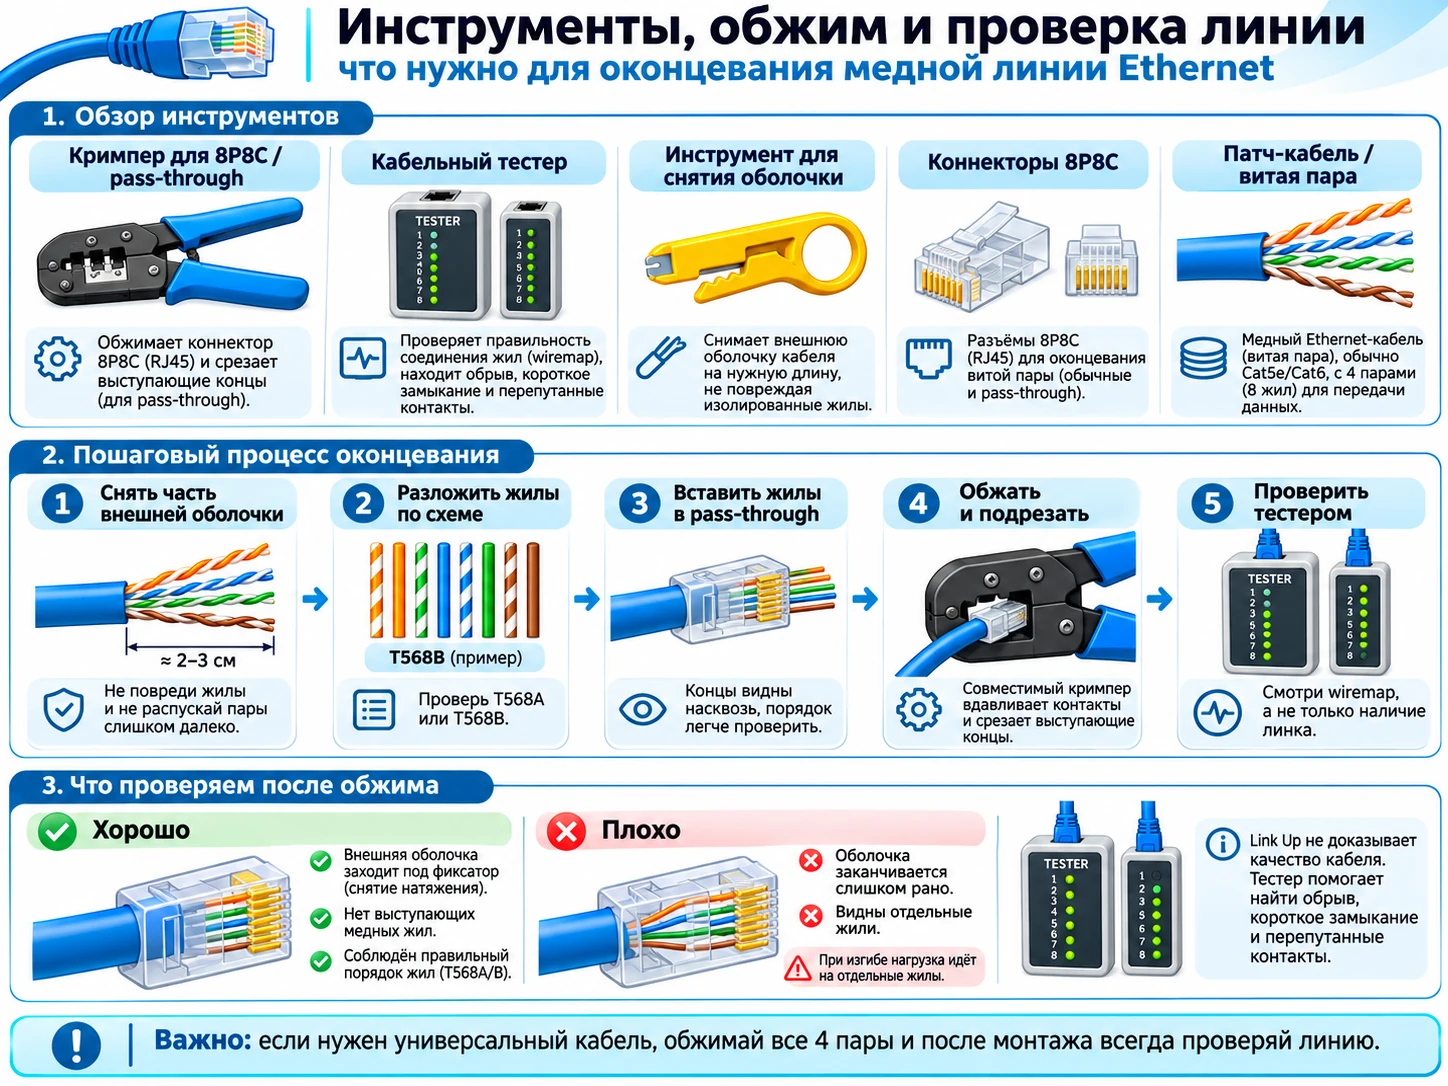
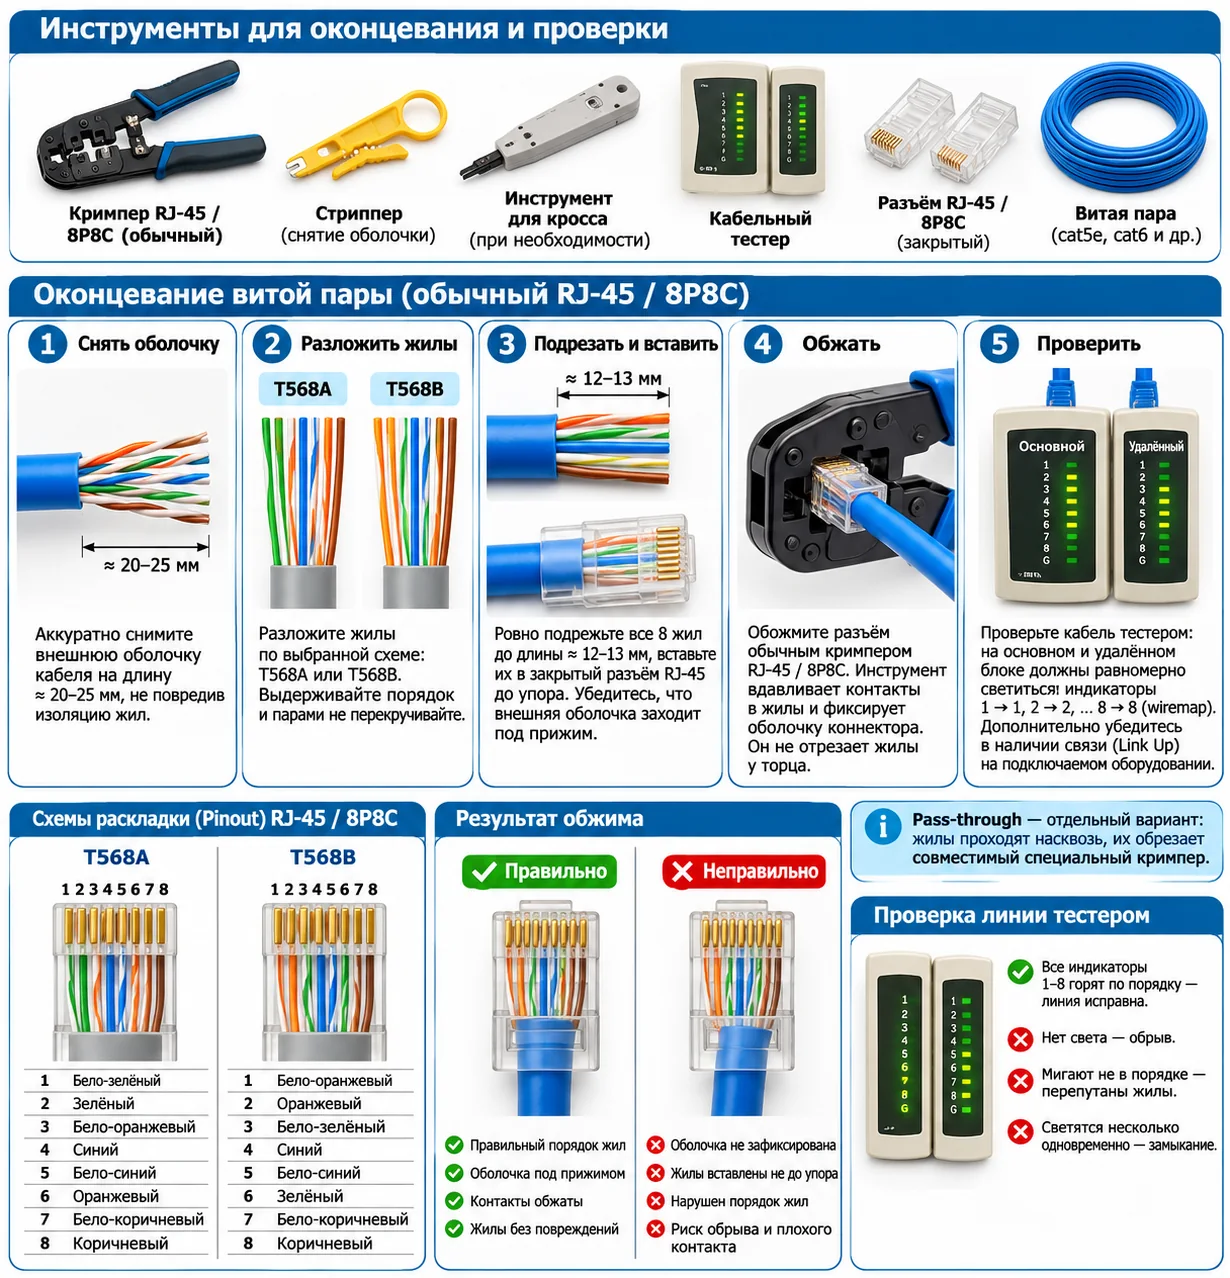
fix(copper lesson): use standard closed 8P8C crimping as primary workflow
Replace crimp-and-test cheatsheet with standard RJ-45 (8P8C) connector and conventional crimper. Clarify wires trimmed before inserting a closed plug, jacket under strain relief, and compare pass-through as separate optional method. Preserve all 16 question links, approval status and other cheat sheets. Staging only.

diff --git a/src/data/lessons/l1-copper-fault-poe.ts b/src/data/lessons/l1-copper-fault-poe.ts
@@ -10,7 +10,7 @@ export const LESSON_L1_COPPER_FAULT_POE: Lesson = {
     "L2"
   ],
   "difficulty": "beginner",
-  "summary": "Учимся отличать обычный и проходной коннекторы 8P8C, выбирать кримпер с обрезкой жил, замечать повреждённую медь и контакты, а после монтажа проверять линию. Фотографии расположены рядом с соответствующими объяснениями.",
+  "summary": "Разбираем обычные закрытые 8P8C (RJ-45) как основной вариант обжима, сравниваем их с pass-through, учимся выбирать инструмент, замечать повреждения жил и контактов и проверять кабель после монтажа.",
   "terms": [
     "витая пара",
     "8P8C",
@@ -26,7 +26,7 @@ export const LESSON_L1_COPPER_FAULT_POE: Lesson = {
   "blocks": [
     {
       "heading": "Что будем проверять в медной линии",
-      "body": "Обычный сетевой кабель Ethernet содержит четыре витые пары — восемь отдельных изолированных проводников. Для надёжного соединения мало просто вставить их в прозрачный штекер: важно не повредить медь, сохранить правильные пары, обеспечить контакт и закрепить оболочку кабеля.\n\nВ этом уроке речь именно о медной линии и её оконцевании. Мы разберём проходной коннектор, инструмент для него, типичные дефекты и проверки после обжима. Подробное питание устройств по кабелю изучается отдельно."
+      "body": "Обычный сетевой кабель Ethernet содержит четыре витые пары — восемь отдельных изолированных проводников. Для надёжного соединения мало просто вставить их в прозрачный штекер: важно не повредить медь, сохранить правильные пары, обеспечить контакт и закрепить оболочку кабеля.\n\nВ этом уроке речь именно о медной линии и её оконцевании. Начнём с обычного закрытого коннектора 8P8C и стандартного кримпера — именно такую последовательность показывает основная шпаргалка. Затем сравним проходной pass-through и его специальный инструмент, рассмотрим дефекты и способы проверки после обжима. Подробное питание устройств по кабелю изучается отдельно."
     },
     {
       "heading": "Обычный 8P8C и pass-through: что меняется",
@@ -62,8 +62,8 @@ export const LESSON_L1_COPPER_FAULT_POE: Lesson = {
       }
     },
     {
-      "heading": "Чем и как обрезают выступающие жилы",
-      "body": "Нужен кримпер, подходящий именно к выбранному проходному штекеру. В совместимом pass-through-кримпере матрица вдавливает металлические контакты в проводники и фиксирует оболочку, а встроенное торцевое лезвие срезает вышедшие наружу концы почти заподлицо с корпусом. Обычно оба действия происходят при полном ходе рукояток.\n\nПорядок: 1) проверить схему цветов и посадку оболочки; 2) вставить штекер в правильное гнездо кримпера до упора; 3) полностью сжать рукоятки; 4) осмотреть передний торец — не должно остаться торчащих медных «усиков», способных замкнуть контакты или помешать посадке.\n\nНа некоторых кримперах отдельно подписаны CUT (резка кабеля) и STRIP (снятие оболочки). Не путай внешний резак CUT с лезвием, которое подрезает жилы у торца проходного штекера. Обычный кримпер без такого лезвия не делает торцевую обрезку; пытаться оставлять выступающие жилы нельзя. Инструмент и коннектор должны быть совместимы по серии, диаметру жил и конструкции.\n\nЕсли концы жил не срезались, не подключай штекер. Проверь совместимость кримпера, положение, чистоту и износ торцевого лезвия. Дефектное окончание переделай новым штекером.",
+      "heading": "Обычный обжим 8P8C и отличие pass-through",
+      "body": "Для стандартного закрытого штекера 8P8C сначала аккуратно снимают участок наружной оболочки и раскладывают пары по T568A или T568B. После проверки цветов восемь жил ровно подрезают бокорезами или режущим узлом инструмента до длины, предусмотренной конкретным штекером. Затем одновременно вставляют их до упора внутрь закрытого корпуса: концы не должны выступать через переднюю стенку. Внешняя оболочка должна попадать под задний прижим.\n\nСледующий шаг — вставить штекер в подходящую матрицу обычного кримпера RJ-45/8P8C и полностью сжать рукоятки. Контактные ножи вдавливаются в проводники, а прижим фиксирует оболочку. Обычный кримпер НЕ обязан обрезать концы жил у передней стенки — их подрезали заранее. Осмотри положение контактов, посадку оболочки, отсутствие повреждений и проверь результат кабельным тестером.\n\nPass-through — альтернативная конструкция: жилы проходят через передний торец, так что раскладку видно до обжима. Совместимый кримпер с торцевым лезвием одновременно обжимает такой штекер и срезает выступающие концы заподлицо. Именно для этого варианта требуется функция торцевой подрезки, которой нет у обычного кримпера.\n\nНадписи CUT и STRIP на инструменте обычно обозначают отдельные операции резки кабеля и снятия наружной оболочки. Не путай их с торцевым ножом pass-through. Подбирай кримпер и штекер по совместимости, включая конструкцию контактов, тип жилы и её диаметр; повреждённый штекер лучше заменить новым.",
       "image": {
         "sprite": "copper-ethernet-lesson.webp",
         "column": 2,
@@ -133,9 +133,9 @@ export const LESSON_L1_COPPER_FAULT_POE: Lesson = {
       },
       "cheatsheet": {
         "file": "copper-termination-checklist.webp",
-        "title": "Инструменты и порядок обжима и проверки",
-        "alt": "Шпаргалка с инструментами, этапами обжима проходного коннектора 8P8C, кабельным тестером, правильным и ошибочным оконцеванием",
-        "note": "Указанная на схеме длина снятия оболочки — только пример. Реальную длину определяют по конструкции коннектора; прозвонка не заменяет осмотр и полноценные испытания кабеля."
+        "title": "Обычный RJ-45 (8P8C): подготовка, обжим и проверка",
+        "alt": "Шпаргалка по обычному закрытому штекеру RJ-45 (8P8C): стриппер, стандартный кримпер, выравнивание и предварительная подрезка восьми жил, обжим, проверка основным и удалённым блоками тестера, сравнение правильной и ошибочной заделки.",
+        "note": "Основной порядок показан для обычного закрытого 8P8C: жилы подрезают ДО вставки, затем обжимают стандартным кримпером. Pass-through — отдельный вариант, в котором выступающие жилы обрезаются специальным кримпером. Размеры разделки на иллюстрации ориентировочные: сверяйся с инструкцией к конкретному штекеру."
       }
     },
     {
